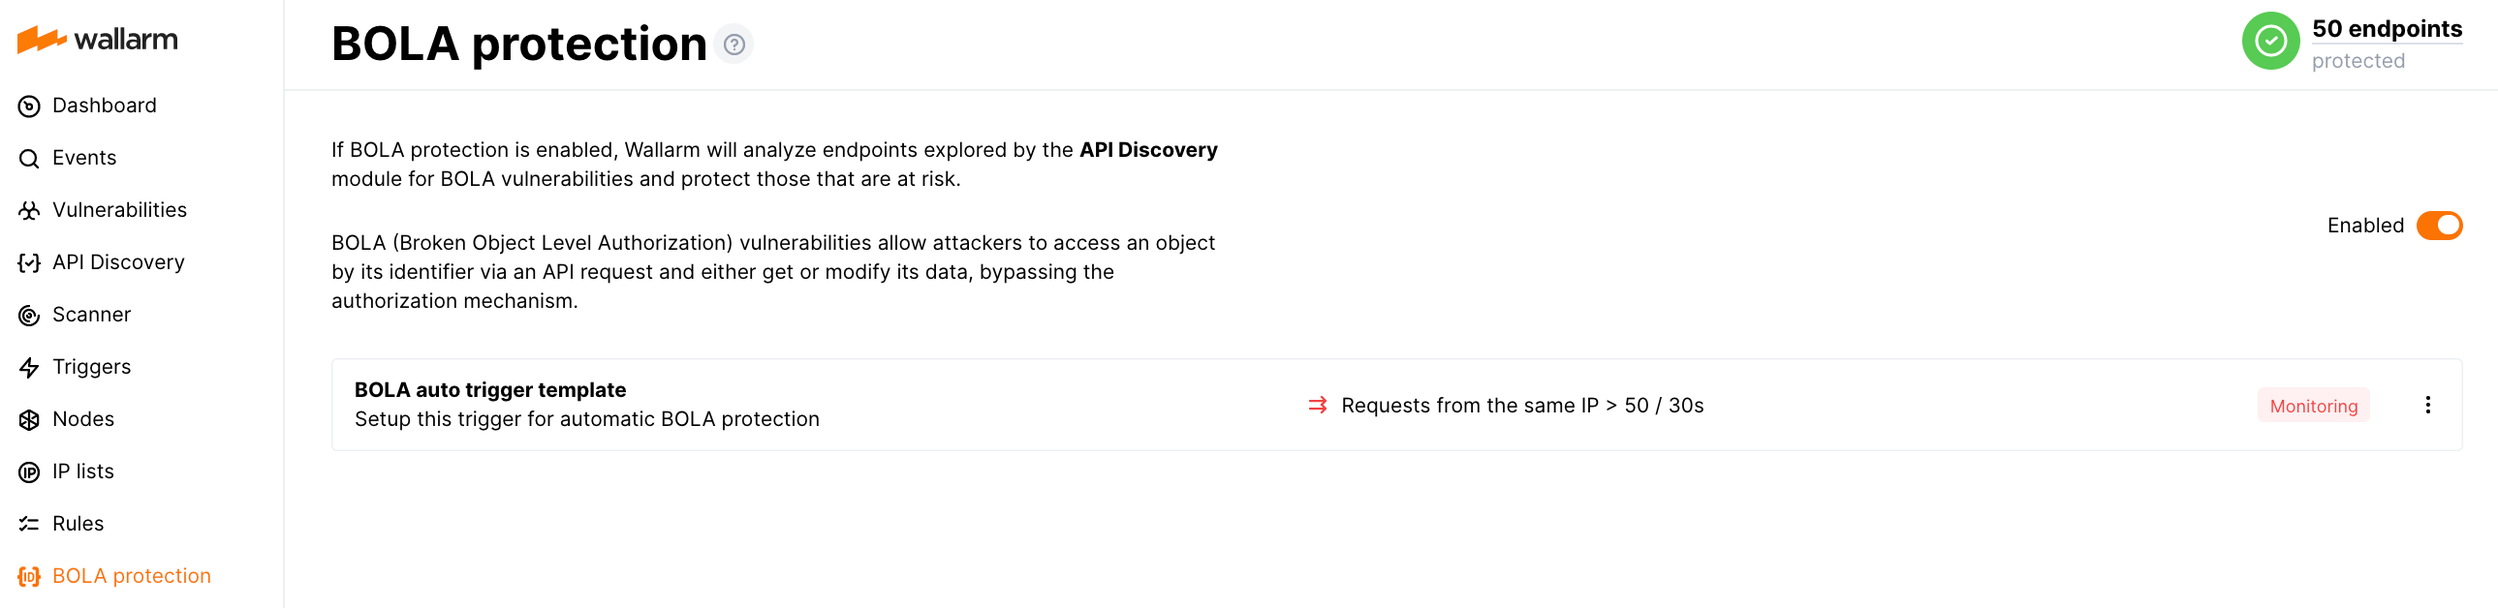
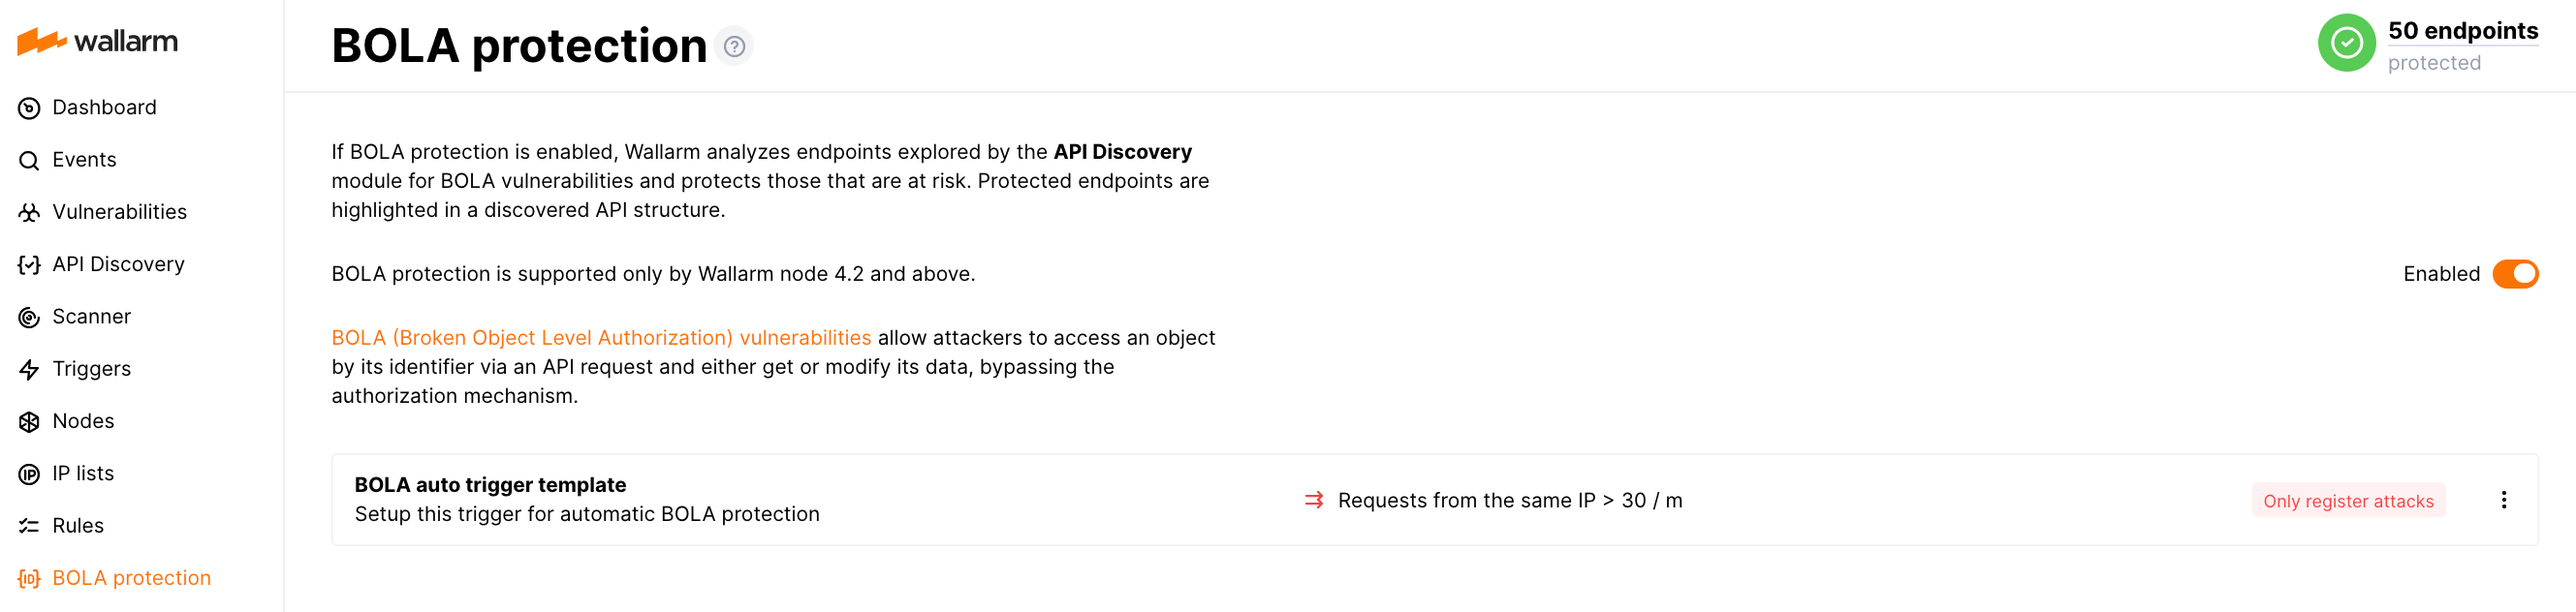
DOCS-1766 fixes after review

diff --git a/include/waf/features/bola-mitigation/bola-auto-mitigation-logic.md b/include/waf/features/bola-mitigation/bola-auto-mitigation-logic.md
@@ -11,5 +11,5 @@ Once BOLA protection is enabled, Wallarm:
     * Requests to a vulnerable endpoint exceeding the 50 requests threshold from the same IP per 30 sec are considered BOLA attacks.
     * Only register BOLA attacks in the event list when the threshold of requests from the same IP is reached. Wallarm does not block BOLA attacks. Requests will keep going to your applications.
 
-        The corresponding reaction in the autoprotection template is **Monitoring**.
+        The corresponding reaction in the autoprotection template is **Only register attacks**.
 1. Reacts to [changes in API structure][changes-in-api-structure-docs] by protecting new vulnerable endpoints and deleting triggers for removed endpoints.

diff --git a/docs/latest/user-guides/bola-protection.md b/docs/latest/user-guides/bola-protection.md
@@ -11,6 +11,8 @@ This section is available under the following conditions:
 * The [API Discovery](../about-wallarm/api-discovery.md) module is enabled
 * The user [role](settings/users.md#user-roles) is either **Administrator** or **Global Administrator**
 
+    The section is also availabe in read-only mode for **Analysts** and **Global Analysts**.
+
 !!! info "Variations of BOLA mitigation"
 
     BOLA mitigation is available in the following variations:
